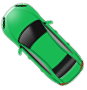
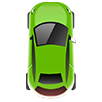
修正marker旋转角度为逆时针的问题

diff --git a/example/App1.js b/example/App1.js
@@ -223,7 +223,7 @@ export default class App1 extends Component<Props> {
                         title={this.state.markers[0].title}
                         location={this.state.markers[0].location}
                         icon={require('./res/image/icon_car.png')}
-                        rotate={90}
+                        rotate={20}
                     />
 
                     <Overlay.Marker

diff --git a/ios/RCTBaiduMap/Module/JMMarkerAnnotation.m b/ios/RCTBaiduMap/Module/JMMarkerAnnotation.m
@@ -35,7 +35,7 @@
     if (!image || (num == radians && num % 360 == 0)) {
         return image;
     }
-    double radius = radians * M_PI / 180 + M_PI;
+    double radius = -radians * M_PI / 180;
 
     CGSize rotatedSize = image.size;
     UIGraphicsBeginImageContextWithOptions(rotatedSize, false, [UIScreen mainScreen].scale);

diff --git a/android/src/main/java/org/lovebing/reactnative/baidumap/uimanager/OverlayMarkerManager.java b/android/src/main/java/org/lovebing/reactnative/baidumap/uimanager/OverlayMarkerManager.java
@@ -61,7 +61,7 @@ public class OverlayMarkerManager extends SimpleViewManager<OverlayMarker> {
 
     @ReactProp(name = "rotate")
     public void setRotate(OverlayMarker overlayMarker, float rotate) {
-        overlayMarker.setRotate(rotate);
+        overlayMarker.setRotate(-rotate);
     }
 
     @ReactProp(name = "flat")
